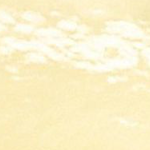
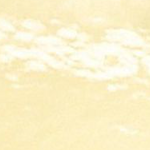
alllmoooostttt

diff --git a/generate.go b/generate.go
@@ -33,7 +33,7 @@ func main() {
 
 			// Crop the image
 			x := ((i+1) * 76.0) + (i * 150.0)
-			y := 192.0 + (j * 150.0) + (j * 116.0)
+			y := 192.0 + (j * 150.0) + (j * 112.0)
 			cropArg := fmt.Sprintf("crop=150:150:%d:%d", x, y)
 			cmd = exec.Command("ffmpeg", "-i", "wallpaper_scaled.png", "-vf", cropArg, fileName)
 			var stderr bytes.Buffer
